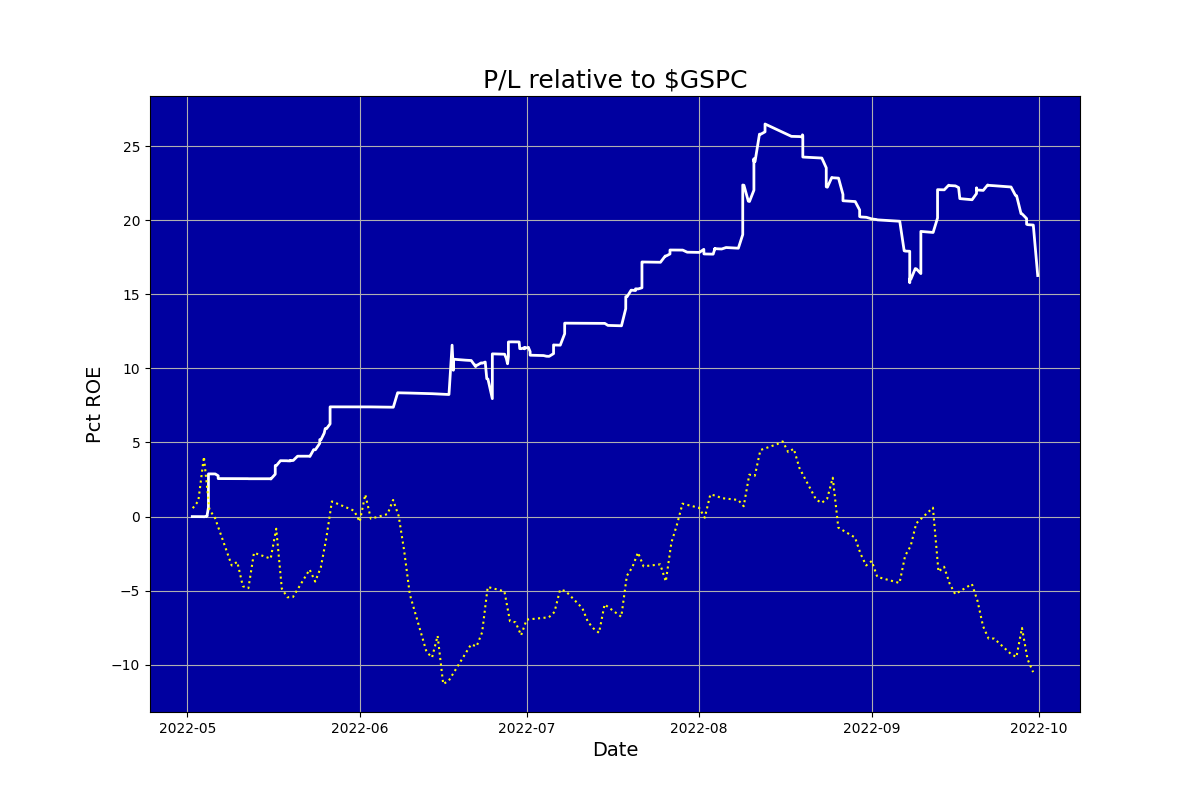
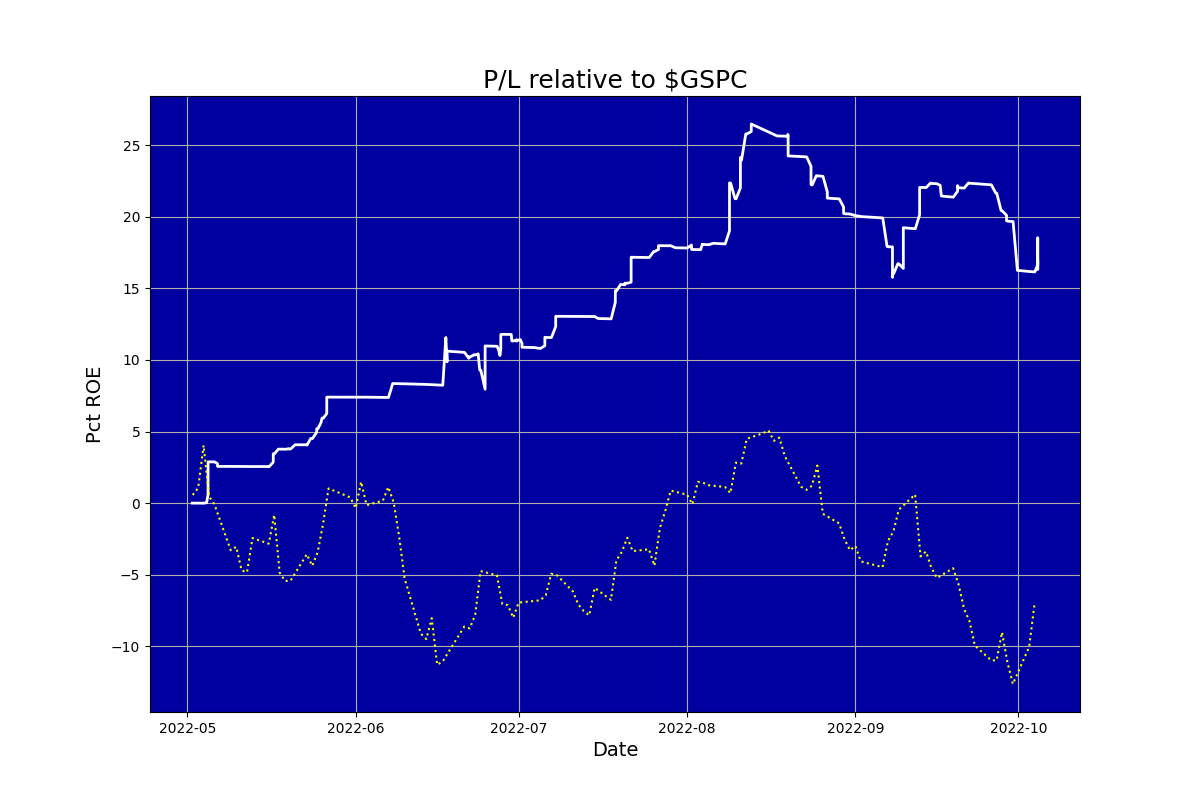
Updated

diff --git a/ig_report.html b/ig_report.html
@@ -1,1 +1,1 @@
-<html><body><center><h1>Auriel (never knowingly overbought)</h1></center><table cols=2><tr><td><img src=ig_pl.png></td><td><table cols=2><tr><td colspan=2><b><br>Snapshot</b></td></tr><tr><td>Last updated:&nbsp;&nbsp;&nbsp;</td><td>2022-09-30 16:00</td></tr><tr><td>Funds:&nbsp;&nbsp;&nbsp;</td><td>13483.45</td></tr><tr><td>Margin:&nbsp;&nbsp;&nbsp;</td><td>0.39</td></tr><tr><td>Cushion:&nbsp;&nbsp;&nbsp;</td><td>-2800.24</td></tr><tr><td>Last closed trade:&nbsp;&nbsp;&nbsp;</td><td>2022-09-30</td></tr><tr><td colspan=2><b><br>Positions</b></td></tr><tr><td>Mean days to new high:&nbsp;&nbsp;&nbsp;</td><td>4.81</td></tr><tr><td colspan=2><b><br>Trades</b></td></tr><tr><td>Num trades:&nbsp;&nbsp;&nbsp;</td><td>136</td></tr><tr><td>Pct winners:&nbsp;&nbsp;&nbsp;</td><td>61.76</td></tr><tr><td>Pct beating benchmark:&nbsp;&nbsp;&nbsp;</td><td>60.74</td></tr><tr><td>Pct profitable months:&nbsp;&nbsp;&nbsp;</td><td>80.00</td></tr><tr><td colspan=2><b><br>Performance</b></td></tr><tr><td>Pct median monthly ROE:&nbsp;&nbsp;&nbsp;</td><td>4.24</td></tr><tr><td>Pct annualised ROE:&nbsp;&nbsp;&nbsp;</td><td>73.42</td></tr><tr><td colspan=2><b><br>Risk</b></td></tr><tr><td>Volatility pct:&nbsp;&nbsp;&nbsp;</td><td>21.43</td></tr><tr><td>Benchmark volatility pct:&nbsp;&nbsp;&nbsp;</td><td>24.81</td></tr><tr><td>Sharpe ratio:&nbsp;&nbsp;&nbsp;</td><td>3.34</td></tr><tr><td>Calmar ratio:&nbsp;&nbsp;&nbsp;</td><td>7.21</td></tr><tr><td>Worst drawdown pct:&nbsp;&nbsp;&nbsp;</td><td>-0.10</td></tr><tr><td>Recovery days from worst drawdown:&nbsp;&nbsp;&nbsp;</td><td>9999.00</td></tr><tr><td>Beat benchmark +ve periods pct:&nbsp;&nbsp;&nbsp;</td><td>0.83</td></tr><tr><td>Beat benchmark -ve periods pct:&nbsp;&nbsp;&nbsp;</td><td>0.94</td></tr><tr><td>Correlation with benchmark:&nbsp;&nbsp;&nbsp;</td><td>0.36</td></tr></table></td></tr></table></body></html>
+<html><body><center><h1>Auriel (never knowingly overbought)</h1></center><table cols=2><tr><td><img src=ig_pl.png></td><td><table cols=2><tr><td colspan=2><b><br>Snapshot</b></td></tr><tr><td>Last updated:&nbsp;&nbsp;&nbsp;</td><td>2022-10-04 17:18</td></tr><tr><td>Funds:&nbsp;&nbsp;&nbsp;</td><td>13558.41</td></tr><tr><td>Margin:&nbsp;&nbsp;&nbsp;</td><td>0.00</td></tr><tr><td>Cushion:&nbsp;&nbsp;&nbsp;</td><td>-1964.95</td></tr><tr><td>Last closed trade:&nbsp;&nbsp;&nbsp;</td><td>2022-10-04</td></tr><tr><td colspan=2><b><br>Positions</b></td></tr><tr><td>Mean days to new high:&nbsp;&nbsp;&nbsp;</td><td>4.88</td></tr><tr><td colspan=2><b><br>Trades</b></td></tr><tr><td>Num trades:&nbsp;&nbsp;&nbsp;</td><td>145</td></tr><tr><td>Pct winners:&nbsp;&nbsp;&nbsp;</td><td>62.07</td></tr><tr><td>Pct beating benchmark:&nbsp;&nbsp;&nbsp;</td><td>61.11</td></tr><tr><td>Pct profitable months:&nbsp;&nbsp;&nbsp;</td><td>83.33</td></tr><tr><td colspan=2><b><br>Performance</b></td></tr><tr><td>Pct median monthly ROE:&nbsp;&nbsp;&nbsp;</td><td>3.40</td></tr><tr><td>Pct annualised ROE:&nbsp;&nbsp;&nbsp;</td><td>75.36</td></tr><tr><td colspan=2><b><br>Risk</b></td></tr><tr><td>Volatility pct:&nbsp;&nbsp;&nbsp;</td><td>21.27</td></tr><tr><td>Benchmark volatility pct:&nbsp;&nbsp;&nbsp;</td><td>25.56</td></tr><tr><td>Sharpe ratio:&nbsp;&nbsp;&nbsp;</td><td>3.45</td></tr><tr><td>Calmar ratio:&nbsp;&nbsp;&nbsp;</td><td>7.40</td></tr><tr><td>Worst drawdown pct:&nbsp;&nbsp;&nbsp;</td><td>-0.10</td></tr><tr><td>Recovery days from worst drawdown:&nbsp;&nbsp;&nbsp;</td><td>9999.00</td></tr><tr><td>Beat benchmark +ve periods pct:&nbsp;&nbsp;&nbsp;</td><td>0.83</td></tr><tr><td>Beat benchmark -ve periods pct:&nbsp;&nbsp;&nbsp;</td><td>0.94</td></tr><tr><td>Correlation with benchmark:&nbsp;&nbsp;&nbsp;</td><td>0.39</td></tr></table></td></tr></table></body></html>
